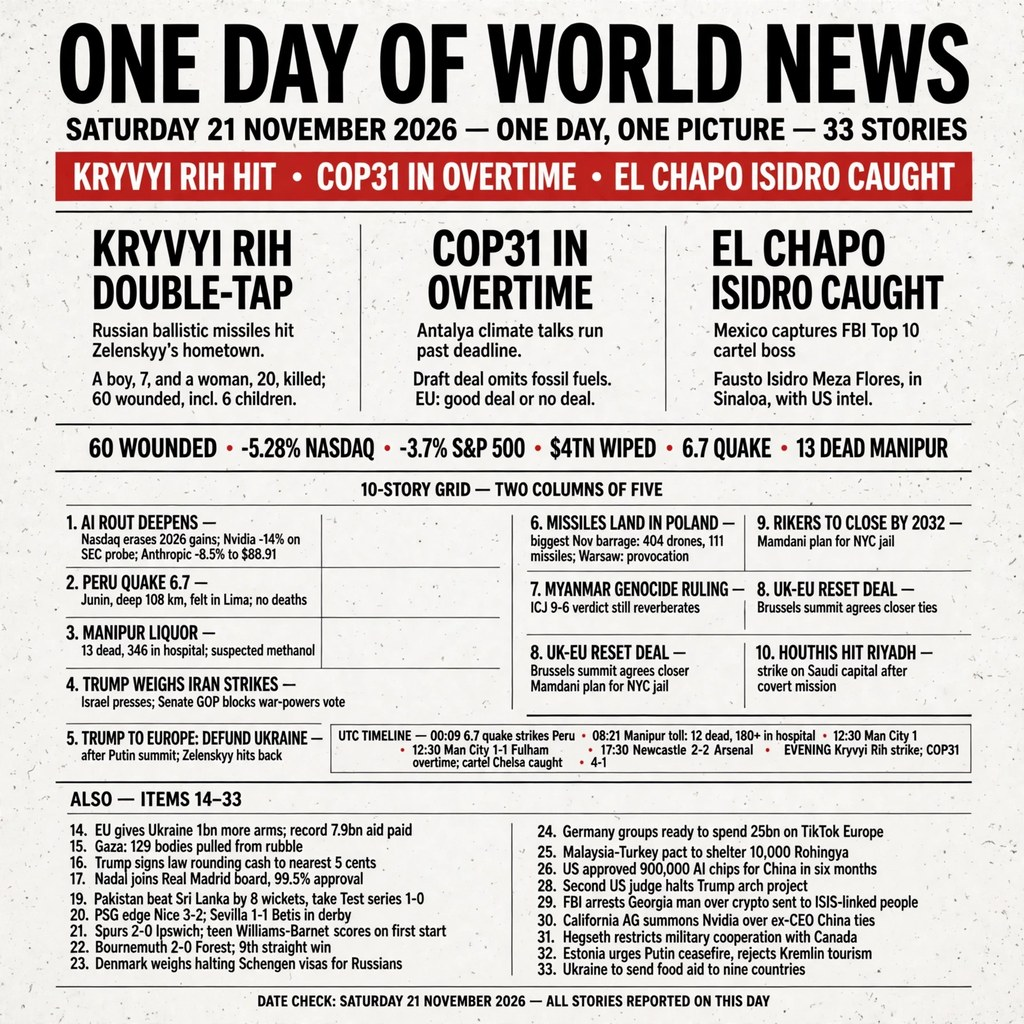
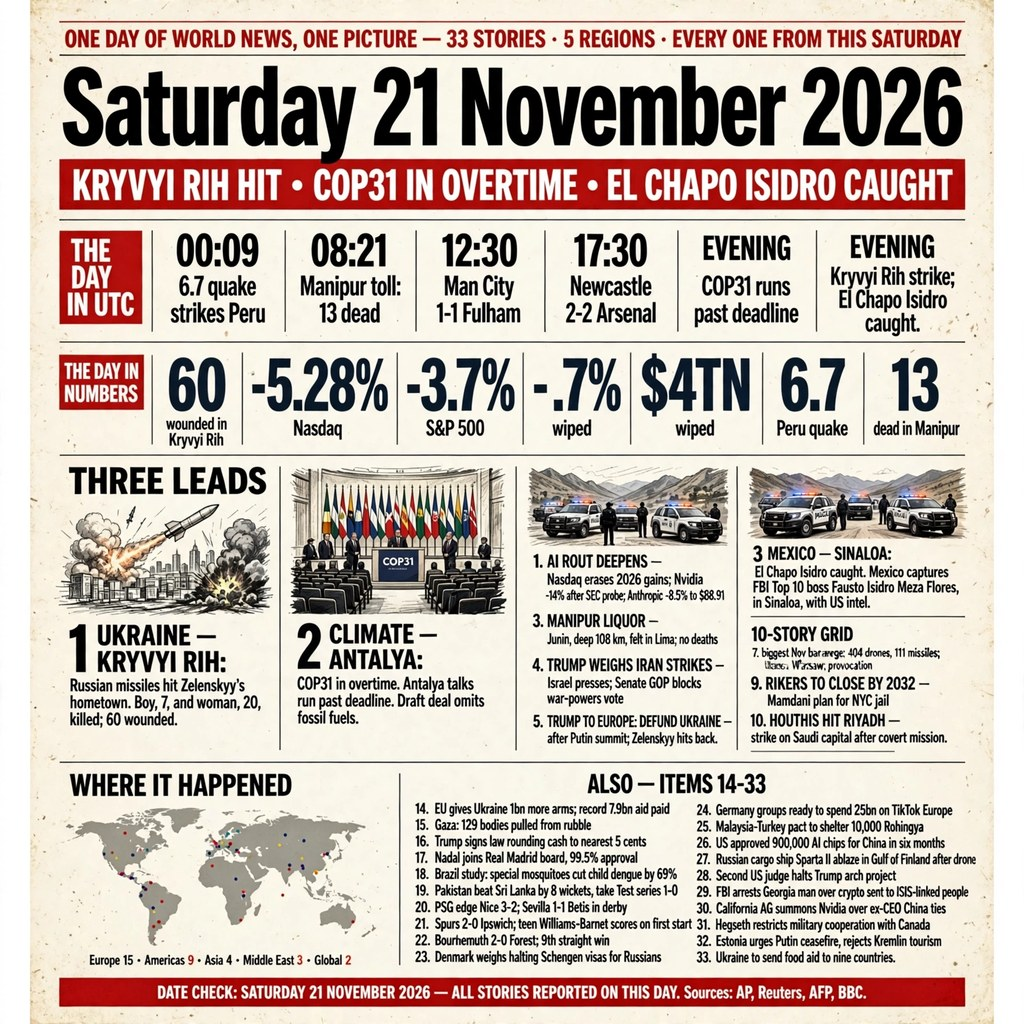
news-image-20261121 v2: denser poster — world map, full 14-33 list, clean timeline

diff --git a/main.py b/main.py
@@ -1,10 +1,13 @@
-"""news-image-20261121: copy the poster to /output/entry.png.
+"""news-image-20261121 v2: copy the denser poster to /output/entry.png.
 
 The poster for Saturday 21 November 2026 is a dense one-page image
-(33 stories: three leads, a ten-story grid, a UTC timeline, a numbers
-strip and a numbered list of stories 14-33, plus a date-check footer).
-It was generated during this build session and stored next to this
-file as entry.png.
+(33 stories: a UTC timeline, a numbers strip, three leads, a ten-story
+grid, a world map with region counts, and a numbered list of stories
+14-33, plus a date-check footer). It was generated during this build
+session, after the v1 preview, and stored next to this file as
+entry.png. The v2 layout is denser than v1: it adds the world map and
+keeps the timeline, numbers, leads, grid and list, rebuilt at the
+reviewer's request for a denser poster ("Buat lebih padat").
 
 This program uses only the Python standard library and no network.
 It copies entry.png byte-for-byte into the output directory, so the

diff --git a/README.md b/README.md
@@ -15,8 +15,10 @@ killed, 60 wounded), the COP31 climate talks running into overtime in
 Antalya with fossil fuels missing from the draft deal, and Mexico's
 capture of cartel boss "El Chapo Isidro" with US intelligence help,
 with a numbers strip (60 wounded, Nasdaq −5.28%, S&P 500 −3.7%, $4tn
-wiped, 6.7 quake, 13 dead in Manipur), a 10-story grid, a UTC timeline
-and a numbered list of stories 14–33 below them.
+wiped, 6.7 quake, 13 dead in Manipur), a 10-story grid, a UTC timeline,
+a "Where it happened" world map with region counts, and a numbered list
+of stories 14–33 below them. V2 is denser than v1: it adds the map and
+fills the two gaps in v1's list (items 18 and 27).
 
 ## How it works
 
